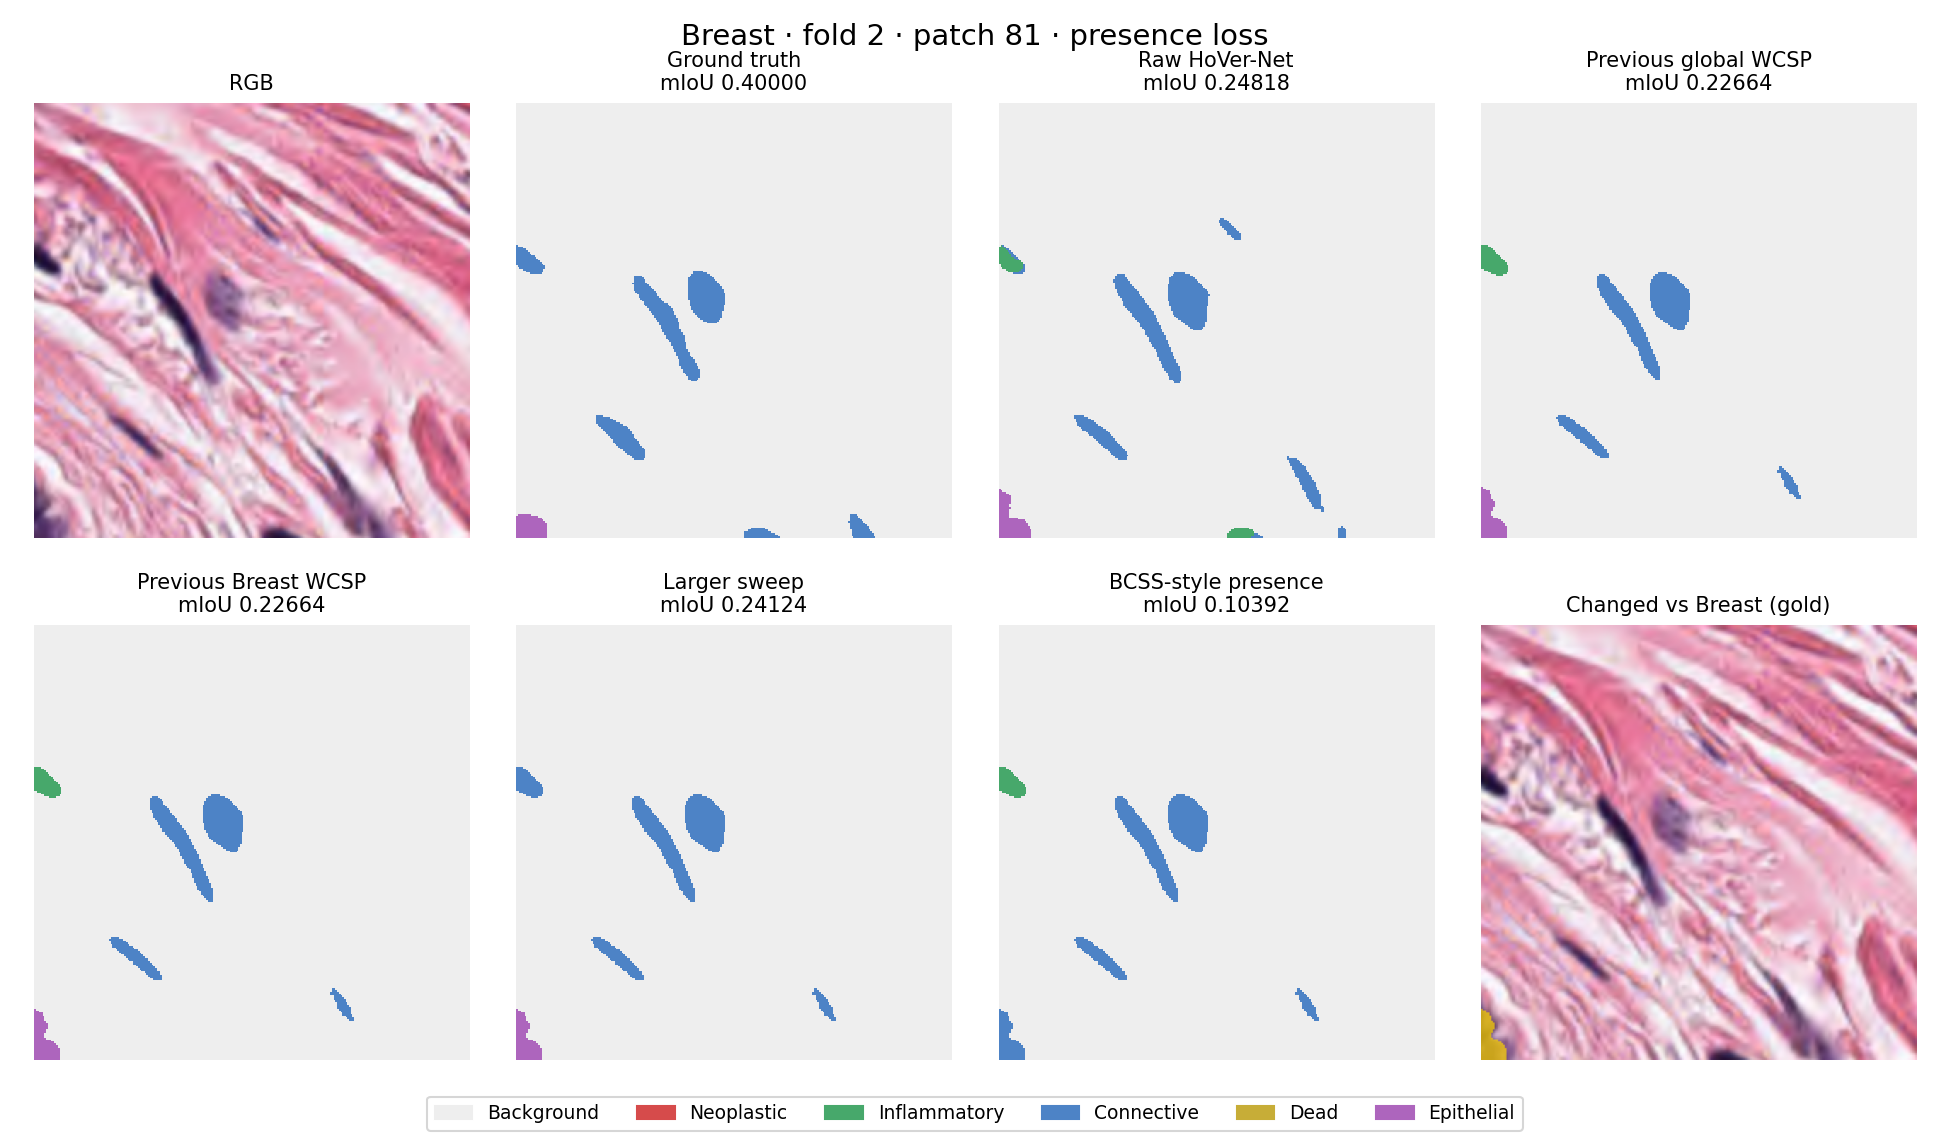
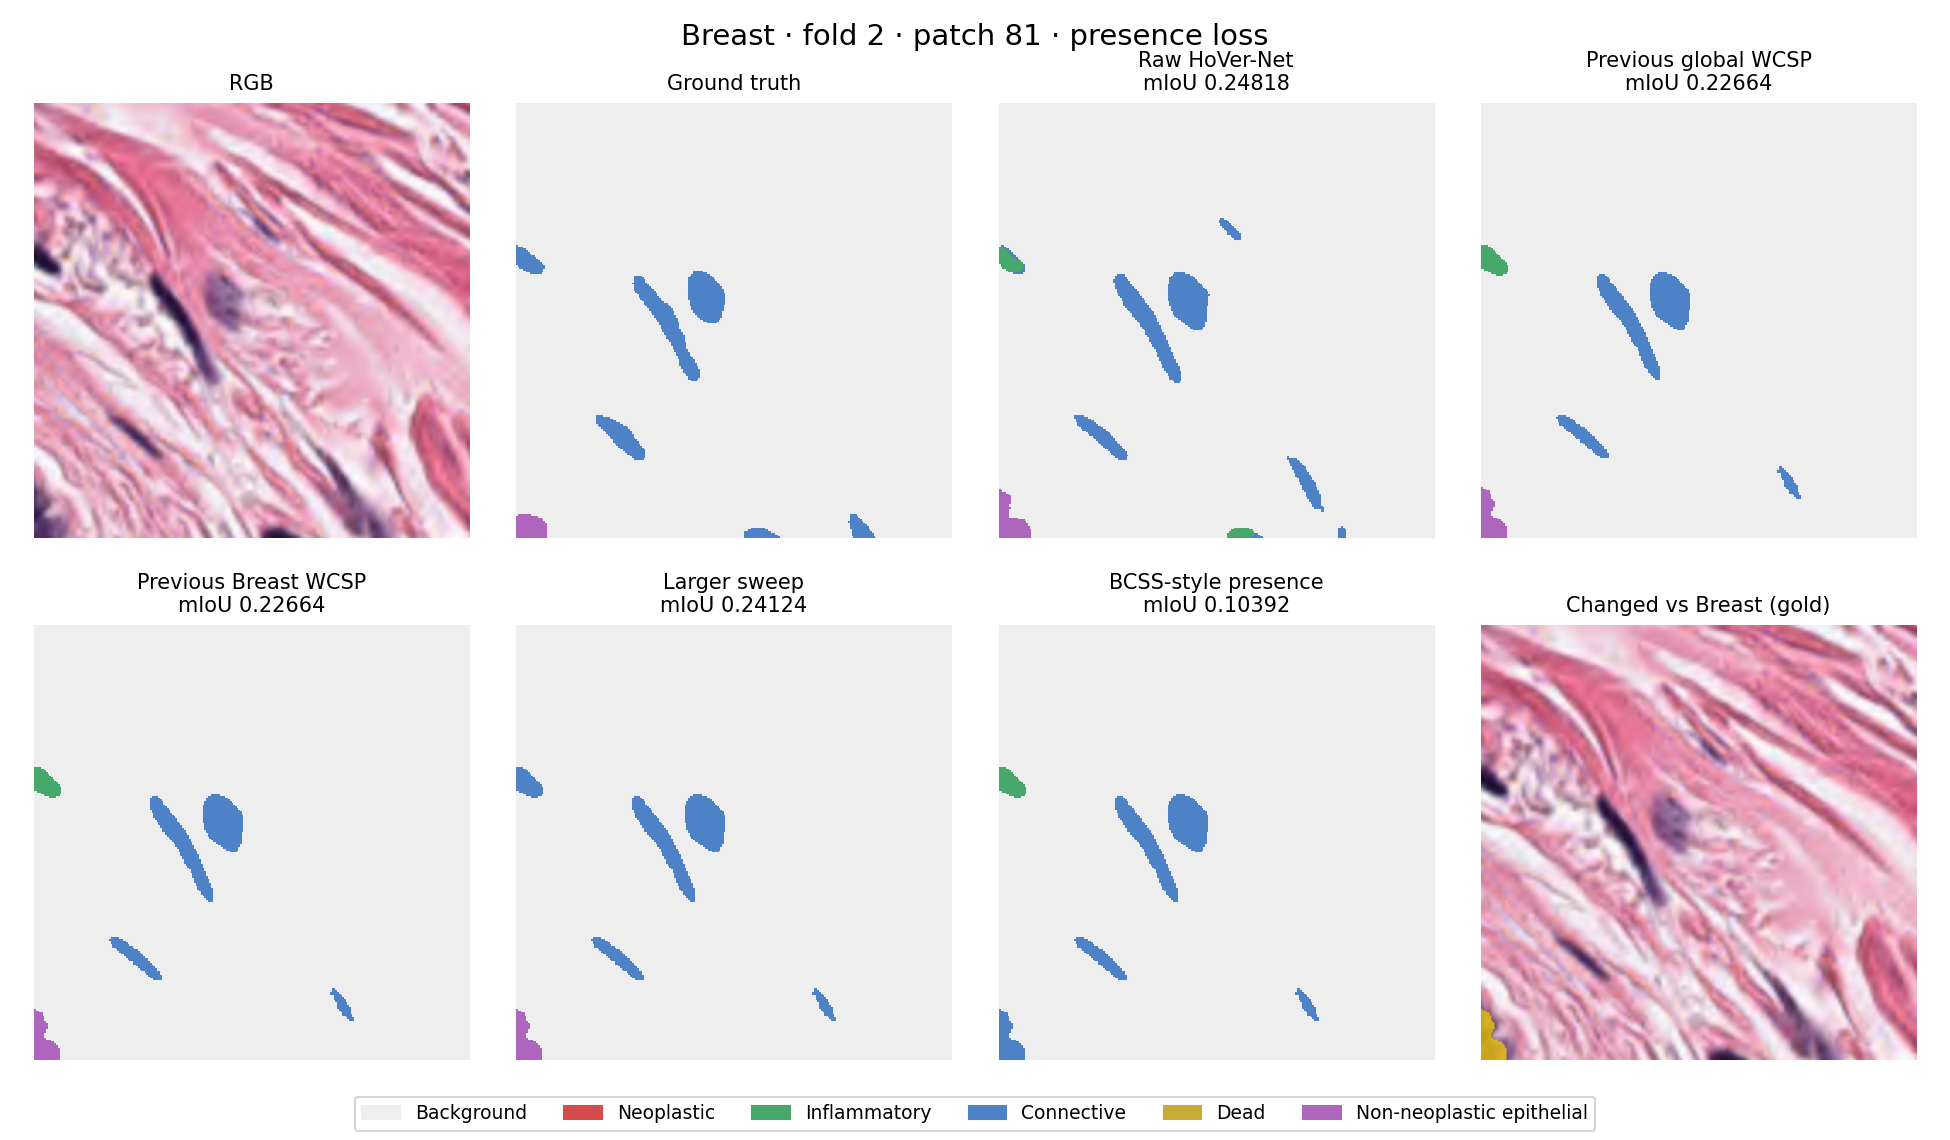
Clarify patch visualization legend and fixed-class scoring

Changed region(s): [[0.2154, 0.9518, 0.8308, 0.9825], [0.3385, 0.0307, 0.4308, 0.0921]]

diff --git a/experiments/pannuke_wcsp/bcss_cohesion_20261123/patch_comparisons/README.md b/experiments/pannuke_wcsp/bcss_cohesion_20261123/patch_comparisons/README.md
@@ -2,7 +2,8 @@
 
 - Full 256×256 Breast patches, fold 2. Same frozen HoVer-Net; nucleus outlines fixed for WCSP.
 - Compare raw → previous global → previous Breast → larger sweep → BCSS-style allowed classes.
-- Gold overlay marks pixels changed by BCSS-style presence relative to previous Breast WCSP.
+- Gold overlay marks changed labels, not Dead cells. Changes are relative to previous Breast WCSP.
+- Per-patch mIoU averages the same five biological classes; absent classes have IoU 0. Ground truth is shown without a self-score.
 - Examples are selected illustrations, including failures; use cohort statistics for overall conclusions.
 - Full-cohort mIoU: previous Breast **0.448441**; larger sweep **0.447948**; BCSS-style presence **0.451867**. Fold-2 follow-up is exploratory.
 
